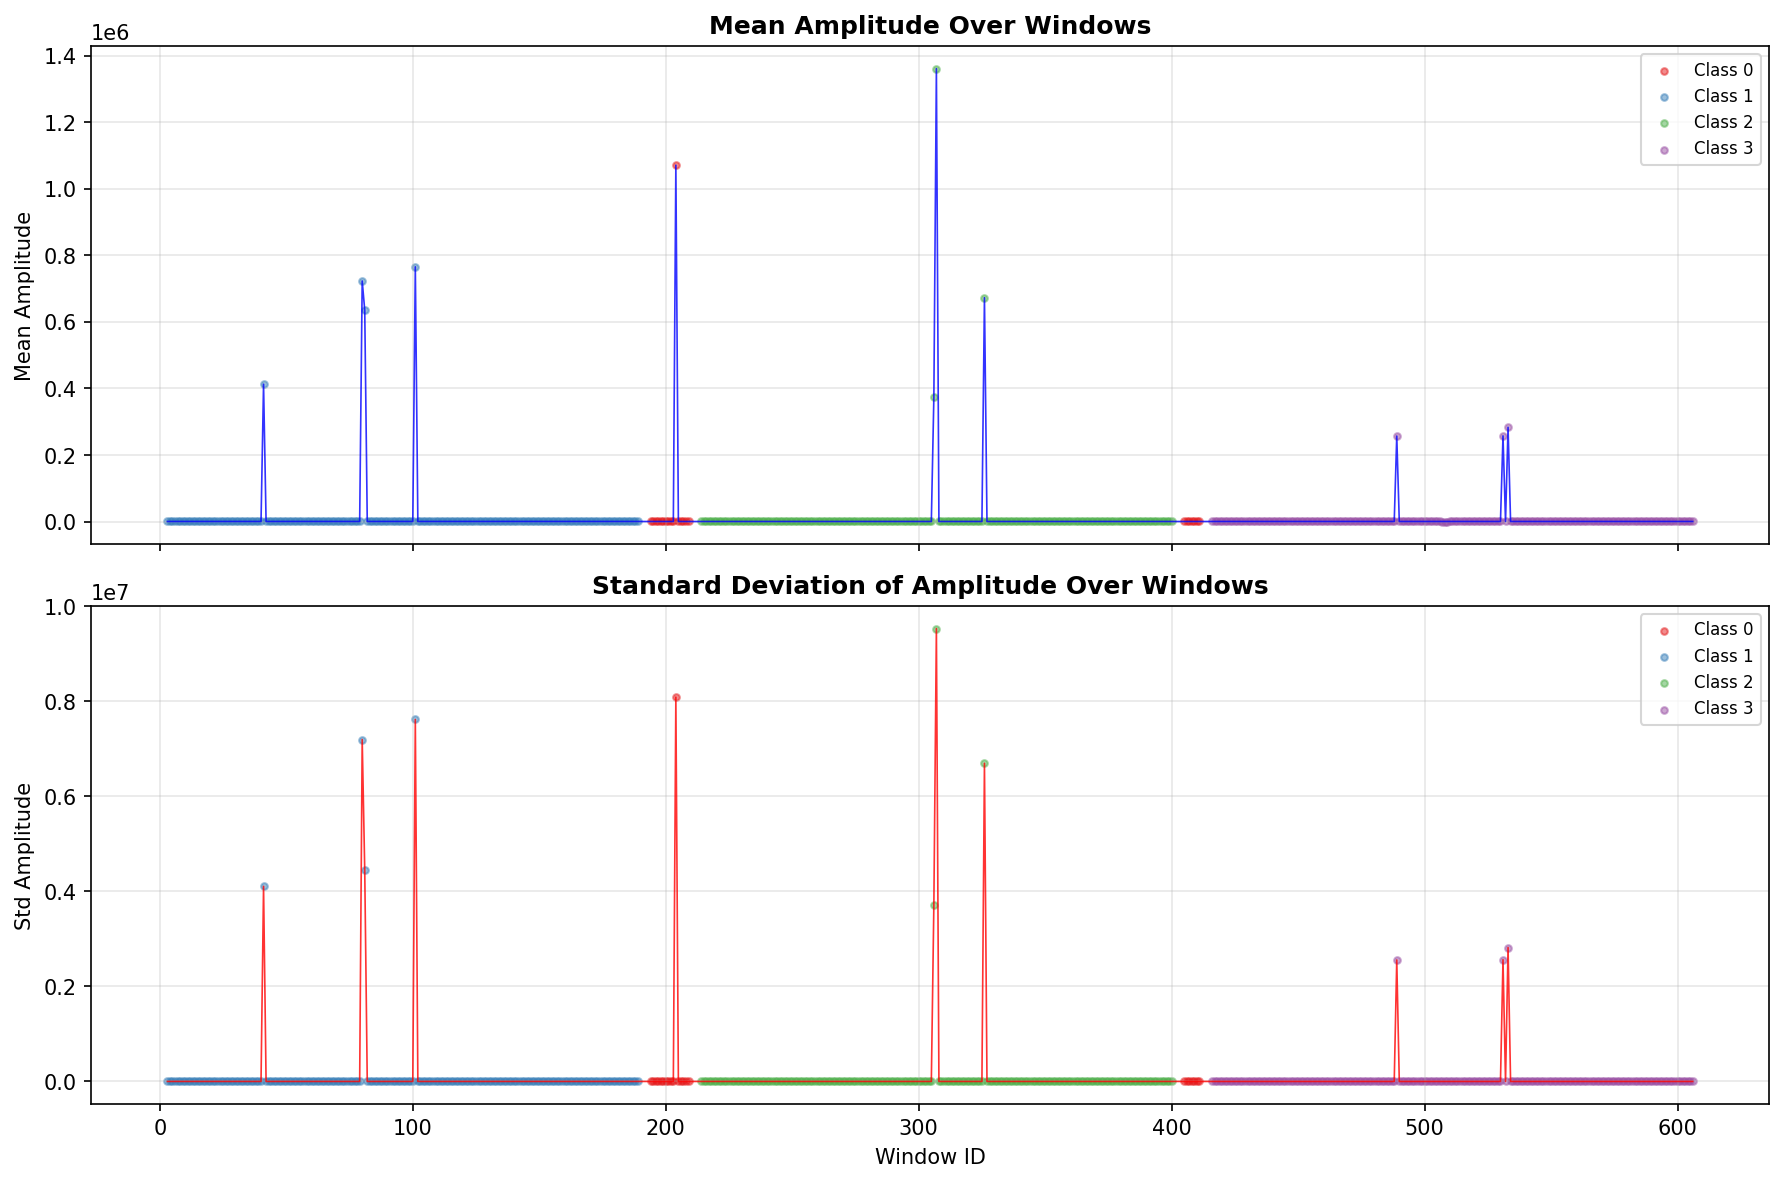
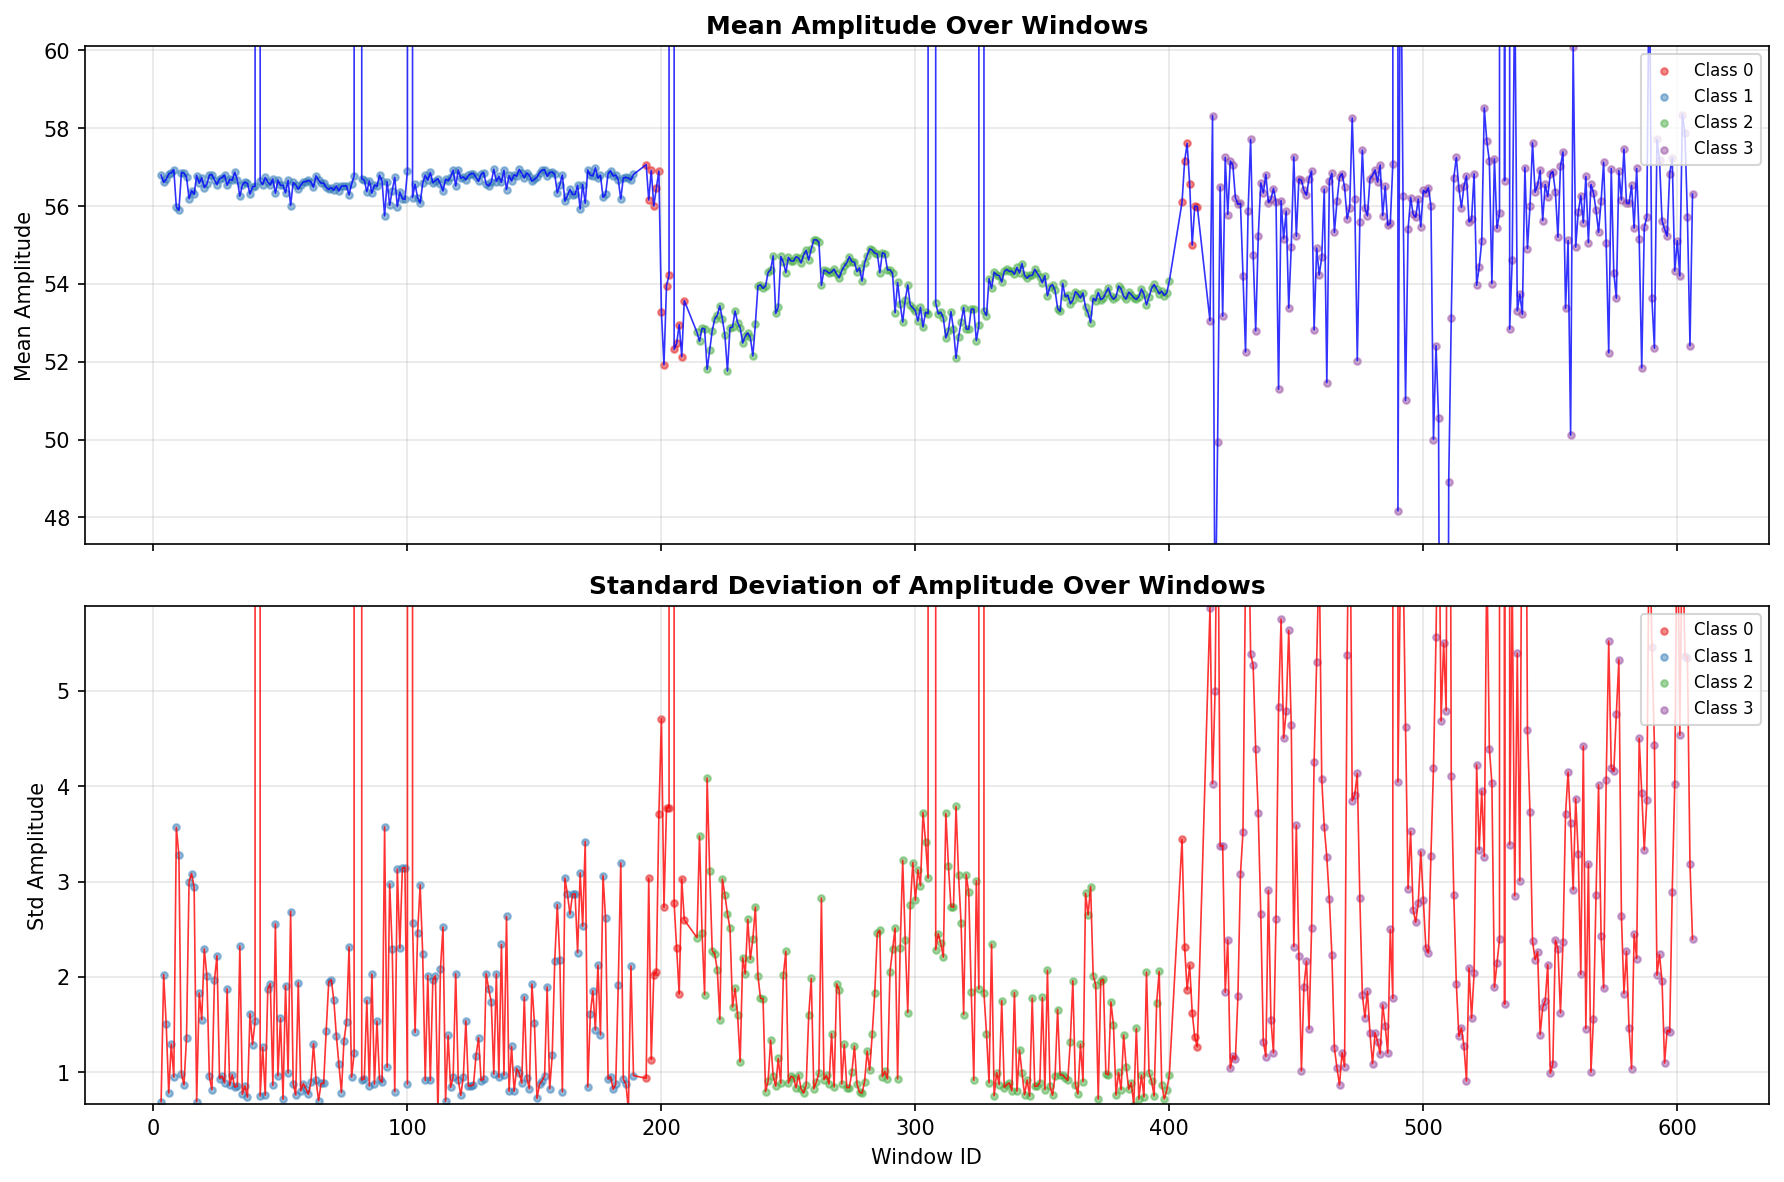
limit axis

diff --git a/src/csi_toolkit/visualization/plots/feature_plots.py b/src/csi_toolkit/visualization/plots/feature_plots.py
@@ -1,6 +1,7 @@
 """Feature-based plot implementations."""
 
 import matplotlib.pyplot as plt
+import numpy as np
 import pandas as pd
 
 from .registry import registry
@@ -64,11 +65,18 @@ def plot_amplitude_over_windows(df: pd.DataFrame) -> plt.Figure:
         x = df.index
         x_label = "Window Index"
 
+    # Calculate y-axis limits using 95th percentile
+    mean_amp_p95 = np.percentile(df["mean_amp"], 95)
+    std_amp_p95 = np.percentile(df["std_amp"], 95)
+    mean_amp_p1 = np.percentile(df["mean_amp"], 1)
+    std_amp_p1 = np.percentile(df["std_amp"], 1)
+
     # Plot mean amplitude
     ax1.plot(x, df["mean_amp"], "b-", linewidth=0.8, alpha=0.8)
     ax1.set_ylabel("Mean Amplitude", fontsize=10)
     ax1.set_title("Mean Amplitude Over Windows", fontsize=12, fontweight="bold")
     ax1.grid(True, alpha=0.3)
+    ax1.set_ylim(top=mean_amp_p95 * 1.05, bottom=mean_amp_p1 * 0.95)  # 5% padding above 95th percentile and below 1st percentile
 
     # Add label coloring if available
     if "label" in df.columns:
@@ -92,6 +100,7 @@ def plot_amplitude_over_windows(df: pd.DataFrame) -> plt.Figure:
     ax2.set_ylabel("Std Amplitude", fontsize=10)
     ax2.set_title("Standard Deviation of Amplitude Over Windows", fontsize=12, fontweight="bold")
     ax2.grid(True, alpha=0.3)
+    ax2.set_ylim(top=std_amp_p95 * 1.05, bottom=std_amp_p1 * 0.95)  # 5% padding above 95th percentile and below 1st percentile
 
     # Add label coloring if available
     if "label" in df.columns:
